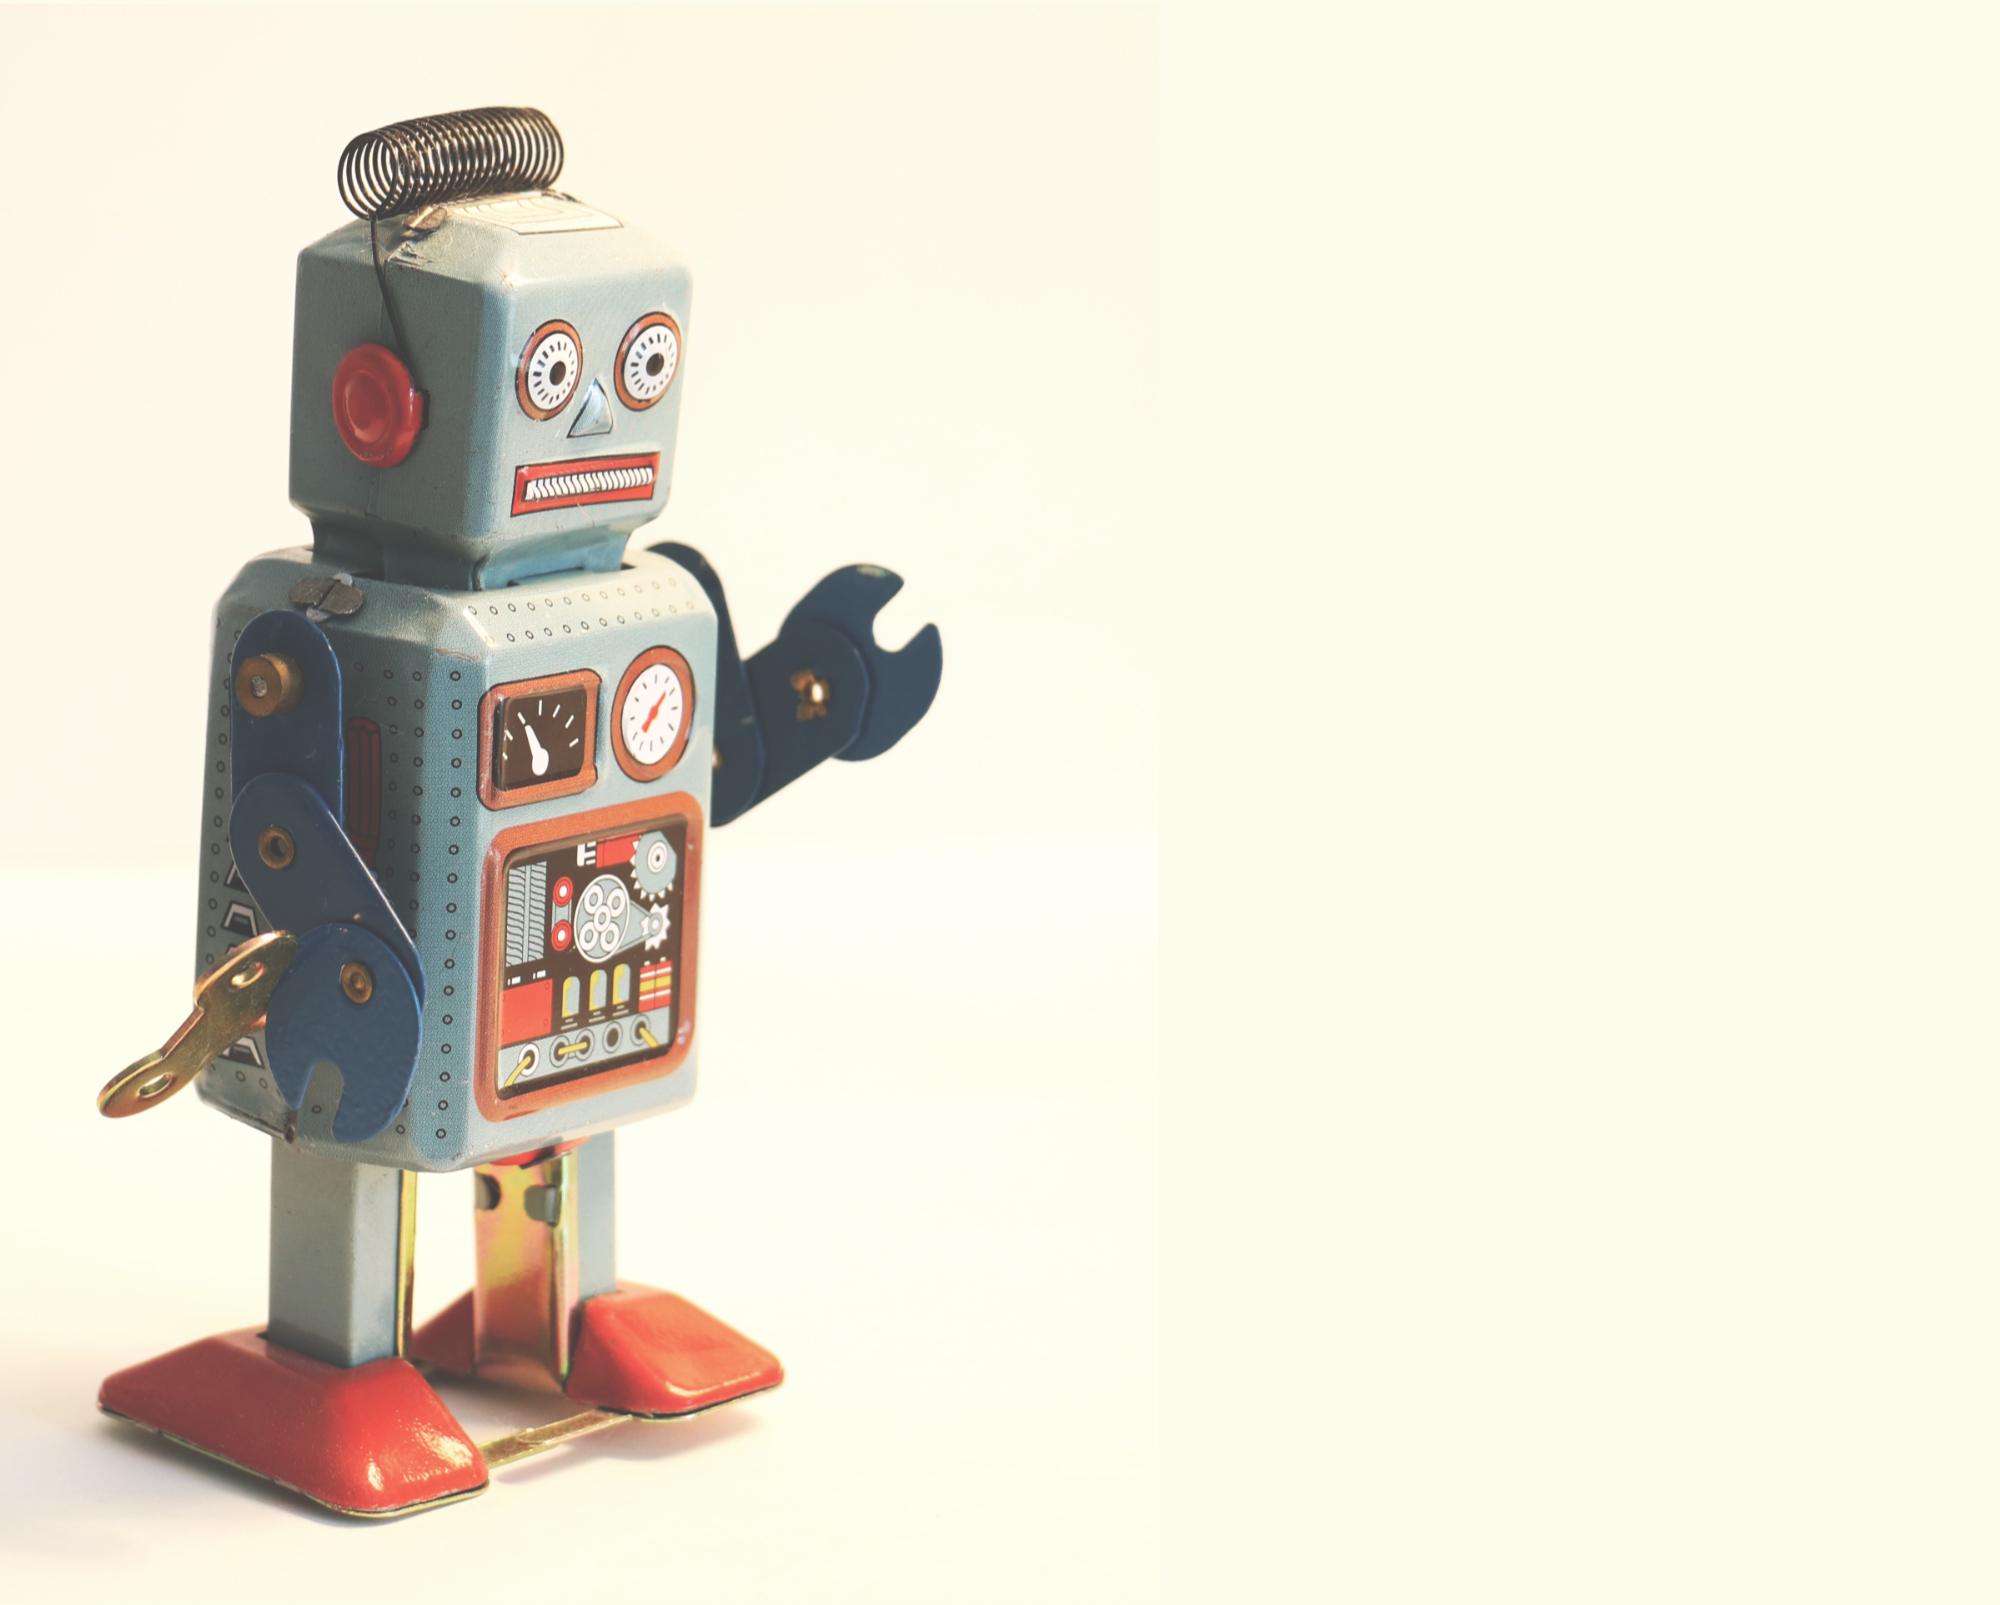
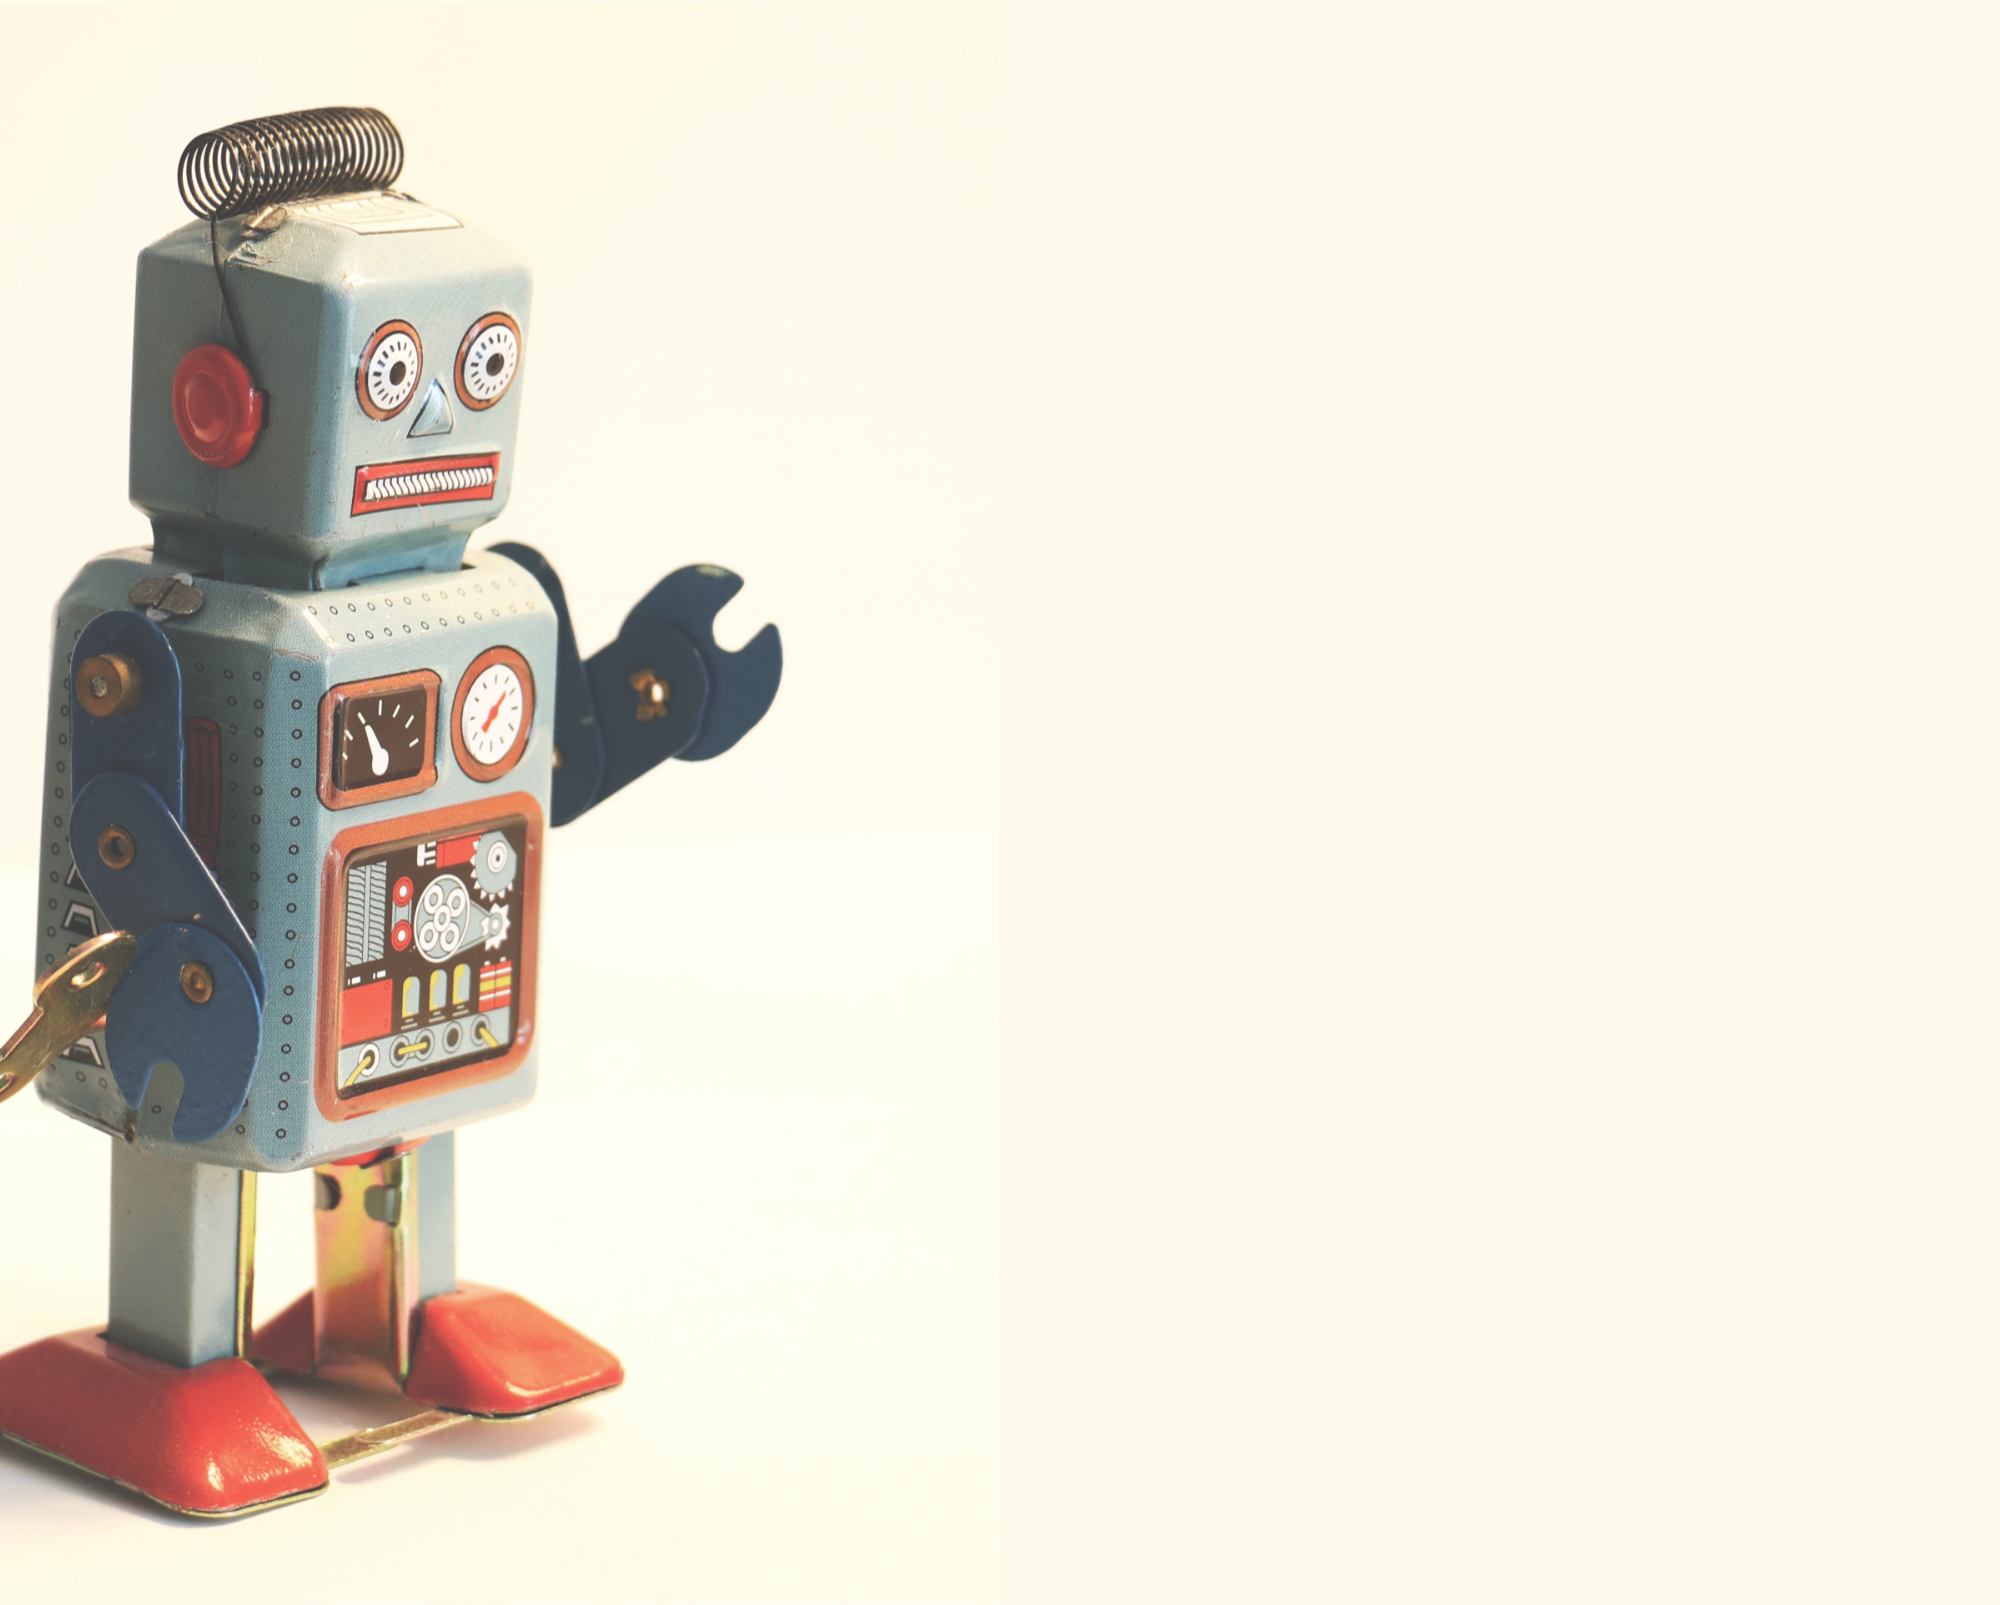
random activity generator
responsive design for random activity generator

Changed region(s): [[0.0, 0.0623, 0.496, 0.9657]]

diff --git a/index.css b/index.css
@@ -1,0 +1,74 @@
+* {
+  box-sizing: border-box;
+  margin: 0;
+  padding: 0;
+}
+
+body {
+  background-image: url(./images/robot-bkg.jpg);
+  background-repeat: no-repeat;
+  display: flex;
+  flex-direction: column;
+  align-items: center;
+  font-family: "Oxygen", sans-serif;
+  padding: 1.5em 2em 2em;
+}
+h1 {
+  font-family: "Teko", sans-serif;
+  font-size: 4rem;
+  color: #16262e;
+  margin-bottom: 1em;
+}
+.activity-holder {
+  display: flex;
+  flex-direction: column;
+  align-items: center;
+  background-color: rgba(245, 244, 245, 0.9);
+  padding: 1.5em;
+  text-align: center;
+  border-radius: 8px;
+  box-shadow: 1px 0 10px rgba(22, 38, 46, 0.2);
+}
+p {
+  color: #55a1b4;
+  font-size: 1.5rem;
+  margin: 1em 0 2em;
+  text-shadow: #f5f4f5 1px 0 10px;
+}
+span {
+  padding: 0 0.125em;
+  color: #9bc53d;
+}
+button {
+  background-color: #265429;
+  color: #9bc53d;
+  border: none;
+  padding: 0.75em 1em;
+  border-radius: 4px;
+  font-size: 1rem;
+  cursor: pointer;
+  margin-bottom: 1em;
+}
+button:hover {
+  background-color: #55a1b4;
+  color: #f5f4f5;
+}
+
+@media (min-width: 700px) {
+  body {
+    padding: 2em;
+  }
+  h1 {
+    margin-bottom: 0.5em;
+  }
+  p {
+    margin-bottom: 2em;
+  }
+  .activity-holder {
+    padding: 3em;
+  }
+  button {
+    margin-bottom: 0.25em;
+    width: 100%;
+  }
+}

diff --git a/index.html b/index.html
@@ -1,0 +1,24 @@
+<!DOCTYPE html>
+<html lang="en">
+  <head>
+    <meta charset="UTF-8" />
+    <meta http-equiv="X-UA-Compatible" content="IE=edge" />
+    <meta name="viewport" content="width=device-width, initial-scale=1.0" />
+    <link rel="preconnect" href="https://fonts.googleapis.com" />
+    <link rel="preconnect" href="https://fonts.gstatic.com" crossorigin />
+    <link
+      href="https://fonts.googleapis.com/css2?family=Oxygen:wght@300&family=Teko:wght@300&display=swap"
+      rel="stylesheet"
+    />
+    <link rel="stylesheet" href="index.css" />
+    <title>BoredBot - Generate ideas for things to do</title>
+  </head>
+  <body>
+    <h1><span>..-</span>BoredBot<span>-..</span></h1>
+    <div class="activity-holder">
+      <p>PLaceholder for random activity ideas</p>
+      <button>Find Activity</button>
+    </div>
+    <script src="index.js"></script>
+  </body>
+</html>
